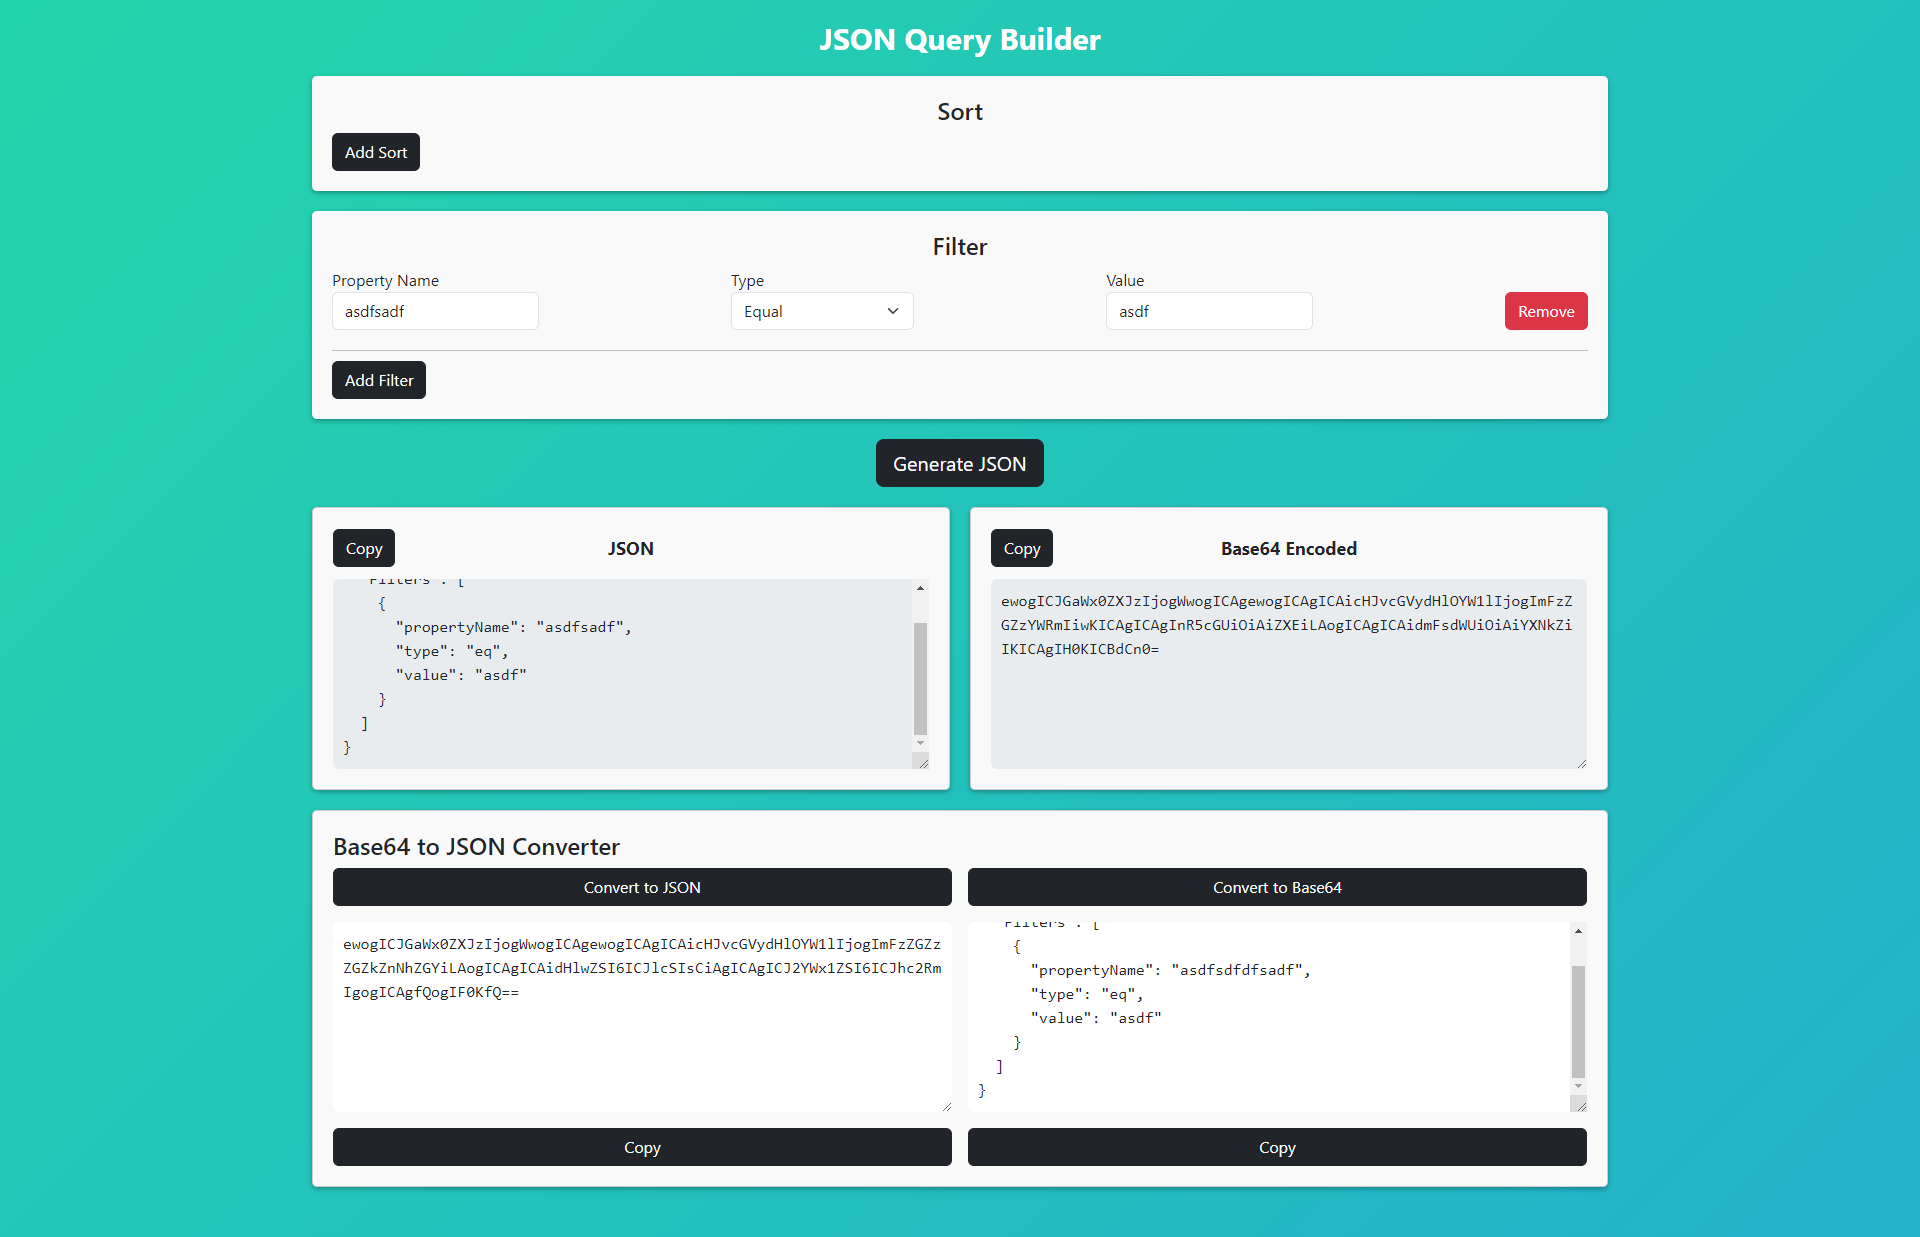
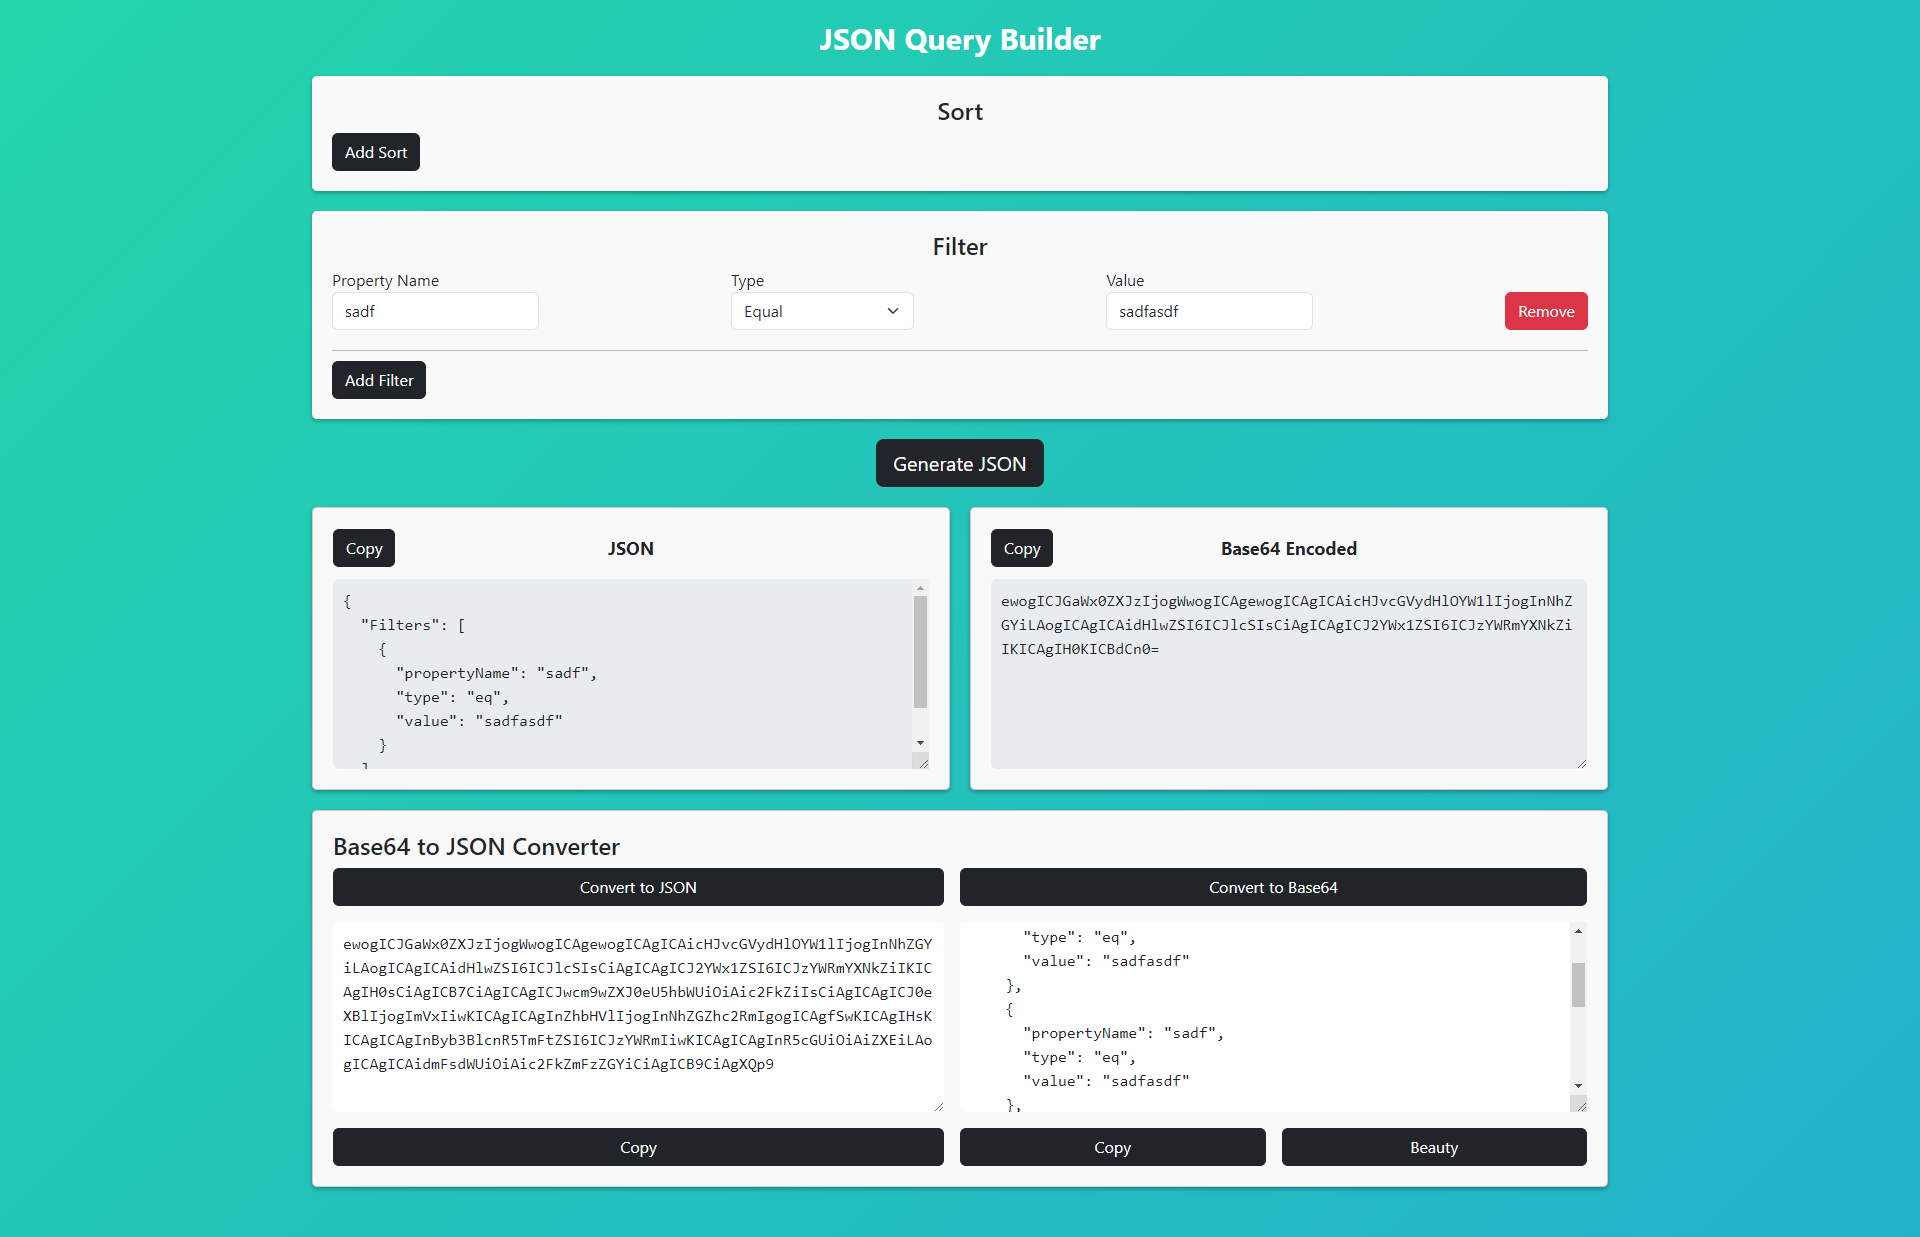
🔨 add button

diff --git a/src/components/Base64Card/Base64Card.js b/src/components/Base64Card/Base64Card.js
@@ -16,8 +16,8 @@ const Base64Card = () => {
       theme: "light",
     });
 
-  const notifyError = () =>
-    toast.error("Failed", {
+  const notifyError = (message) =>
+    toast.error(message ?? "Failed", {
       position: "top-right",
       autoClose: 2000,
       hideProgressBar: true,
@@ -64,6 +64,18 @@ const Base64Card = () => {
     );
   };
 
+  const beautifyJSON = () => {
+    try {
+      const parsedJSON = JSON.parse(jsonOutput);
+      const beautifiedJSON = JSON.stringify(parsedJSON, null, 2);
+      setJsonOutput(beautifiedJSON);
+    } catch (error) {
+      console.error("Error beautifying JSON:", error);
+      notifyError("Error beautifying JSON");
+    }
+  };
+  
+
   return (
     <div className="card">
       <h4>Base64 to JSON Converter</h4>
@@ -93,17 +105,25 @@ const Base64Card = () => {
           Convert to Base64
         </button>
         <textarea
-          className="form-control output"
+          className="form-control json-output"
           value={jsonOutput}
           placeholder="Enter JSON"
           onChange={(e) => setJsonOutput(e.target.value)}
         />
+       
         <button
           className="btn btn-dark copyBase64"
           onClick={() => copyToClipboard(jsonOutput)}
         >
           Copy
         </button>
+        <button
+          className="btn btn-dark beauty"
+          onClick={beautifyJSON}
+        >
+          Beauty
+        </button>
+  
       </div>
     </div>
   );

diff --git a/src/components/Base64Card/Base64Card.css b/src/components/Base64Card/Base64Card.css
@@ -15,11 +15,11 @@
 
 @media screen and (min-width: 768px) {
   .grid-container {
-    grid-template-columns: 1fr 1fr;
+    grid-template-columns: 0.50fr 0.25fr 0.25fr;
     grid-template-areas:
-      "convertToJSON convertToBase64"
-      "base64Input jsonOutput"
-      "copyJson copyBase64";
+      "convertToJSON convertToBase64 convertToBase64"
+      "base64Input jsonOutput jsonOutput"
+      "copyJson copyBase64 beauty";
   }
 
   .convert-to-json {
@@ -44,5 +44,9 @@
 
   .copyBase64 {
     grid-area: copyBase64;
+  }
+
+  .beauty {
+    grid-area: beauty;
   }
 }
